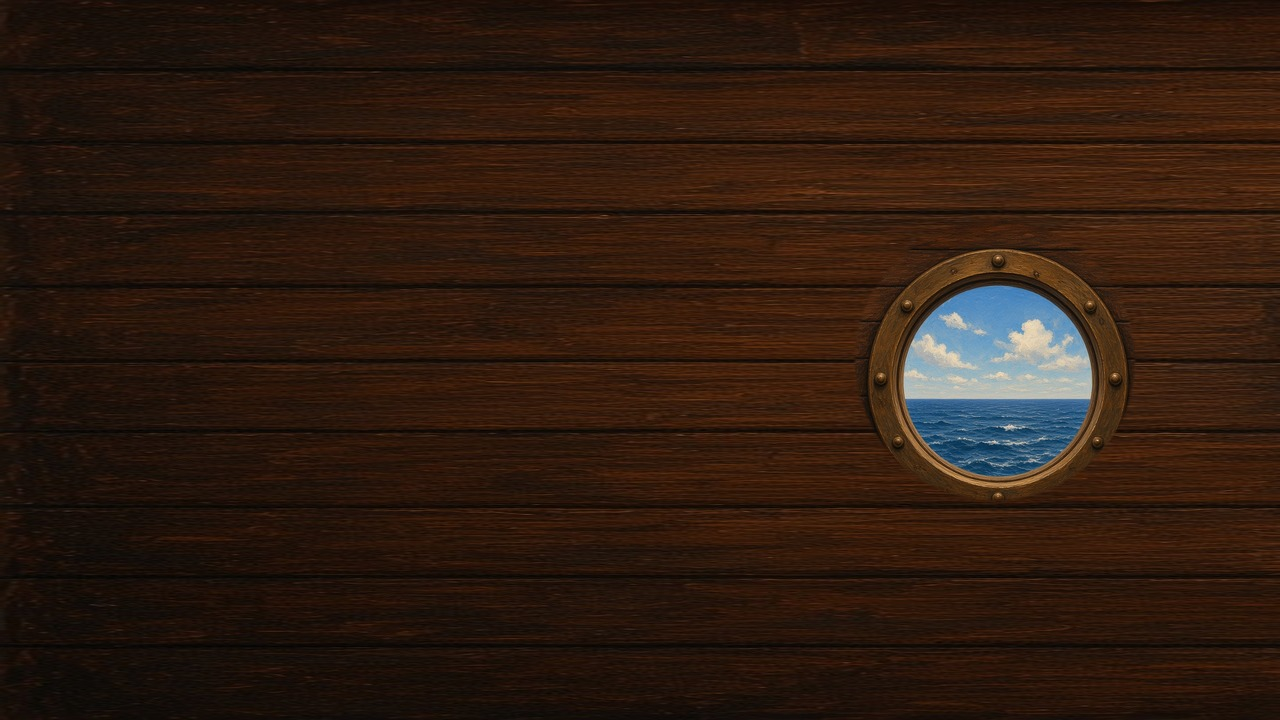
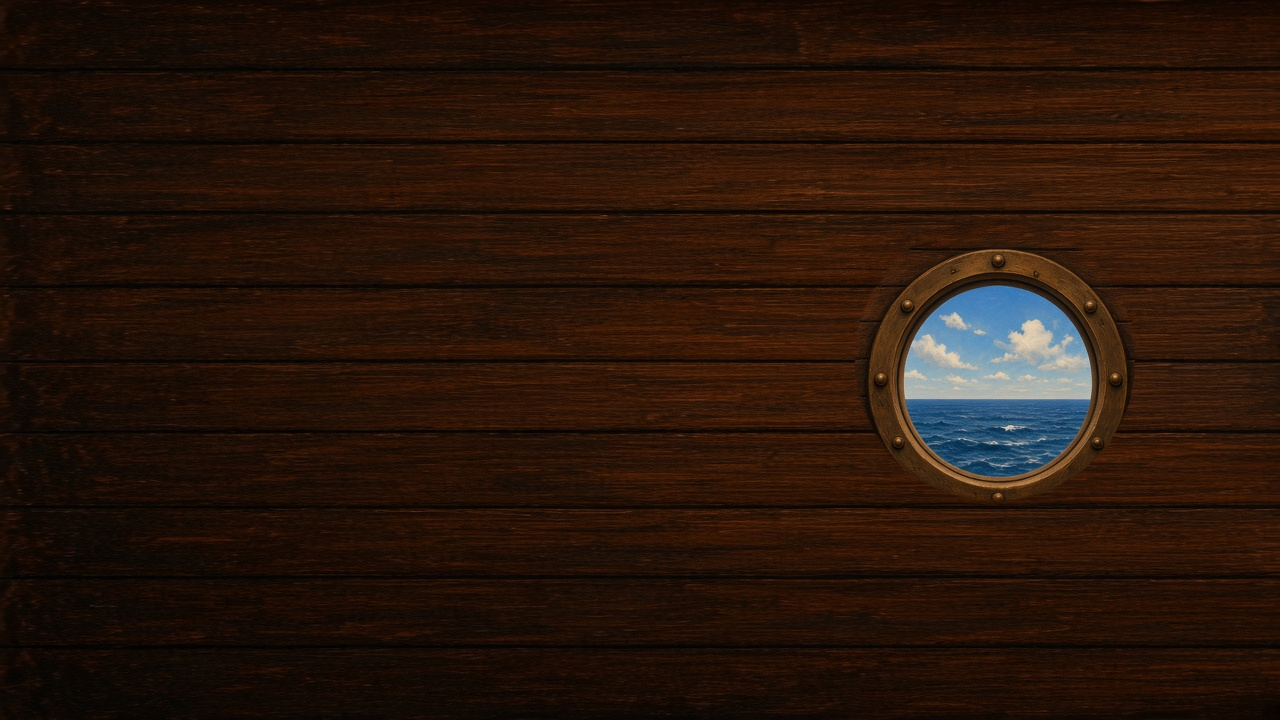
Fix clipped bottom on port porthole
Replace the broken composite with a full circular porthole,
still smaller and on the right side of the empty port wall.

Changed region(s): [[0.6875, 0.5806, 0.8438, 0.6722]]

diff --git a/pirates-cabin.js b/pirates-cabin.js
@@ -11,9 +11,9 @@
       note: "Stern wall · approved · sunrise in the windows",
     },
     port: {
-      src: "images/cabin-port-wall-sm.jpg?v=1",
-      alt: "Empty port wall with a small daytime porthole on the right",
-      note: "Port wall · smaller porthole on the right · daytime ocean",
+      src: "images/cabin-port-wall-sm.jpg?v=2",
+      alt: "Empty port wall with a small complete daytime porthole on the right",
+      note: "Port wall · smaller full porthole on the right · daytime ocean",
     },
   };
 

diff --git a/pirates-cabin.html b/pirates-cabin.html
@@ -28,8 +28,8 @@
       <div class="cabin-wall-view">
         <img
           id="cabin-wall-image"
-          src="images/cabin-port-wall-sm.jpg?v=1"
-          alt="Empty port wall with a small daytime porthole on the right"
+          src="images/cabin-port-wall-sm.jpg?v=2"
+          alt="Empty port wall with a small complete daytime porthole on the right"
           draggable="false"
         />
       </div>
